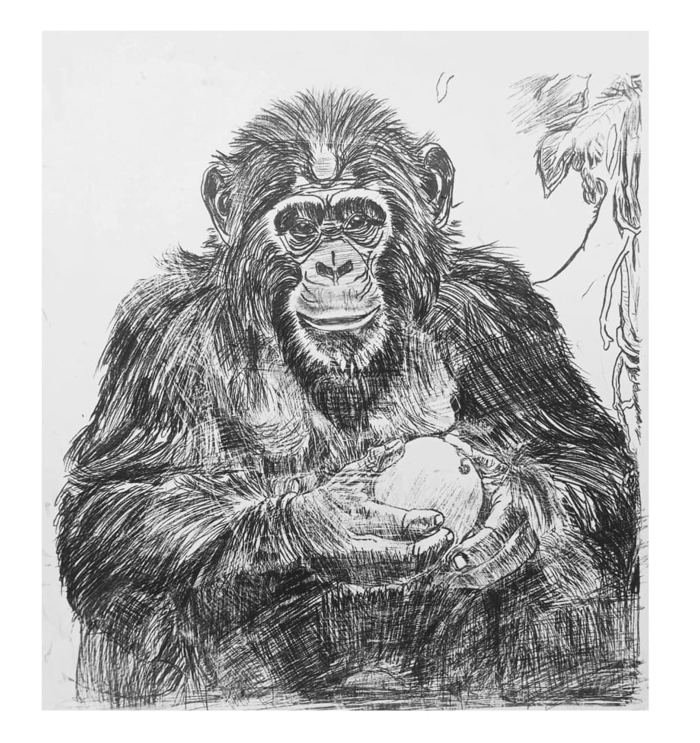
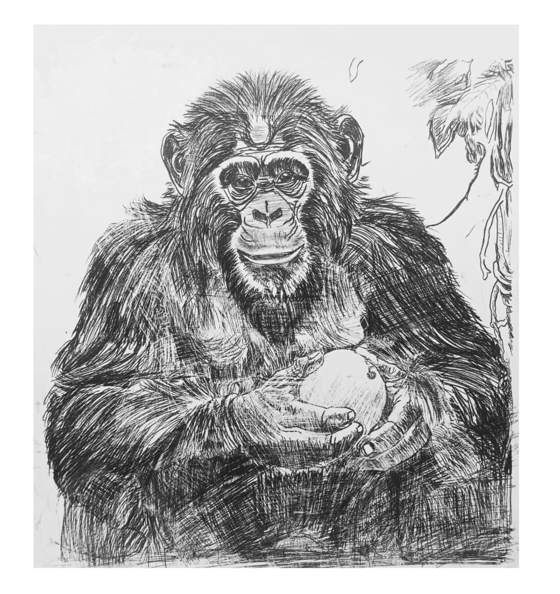
Lighter thumbnails

diff --git a/script.js b/script.js
@@ -65,7 +65,7 @@ CHRONICLE.forEach((c, i) => {
   const el = document.createElement("div");
   el.className = "chap reveal";
   el.innerHTML = `<div class="chap-img" data-index="${i}" tabindex="0" role="button" aria-label="View ${esc(c.title)}">
-      <img src="images/${c.id}.jpg" alt="${esc(c.title)}, ${esc(c.role)}" loading="lazy"></div>
+      <img src="images/thumbs/${c.id}.jpg" alt="${esc(c.title)}, ${esc(c.role)}" loading="lazy"></div>
     <div class="chap-text"><div class="chap-no">${pad(i + 1)}</div>
       <h3>${esc(c.title)}</h3><p class="tag">${esc(c.role)}</p>
       ${c.desc.map(p => `<p>${esc(p)}</p>`).join("")}</div>`;

diff --git a/index.html b/index.html
@@ -46,7 +46,7 @@
   </div>
   <div class="hero-art">
     <div class="arch">
-      <img src="images/nubian-beauty.jpg" alt="The Nubian Beauty, oil on canvas by Oloyede James Kehinde" fetchpriority="high">
+      <img src="images/thumbs/nubian-beauty.jpg" alt="The Nubian Beauty, oil on canvas by Oloyede James Kehinde" fetchpriority="high">
     </div>
     <p class="arch-cap"><em>The Nubian Beauty</em><br>Oil on canvas</p>
   </div>
